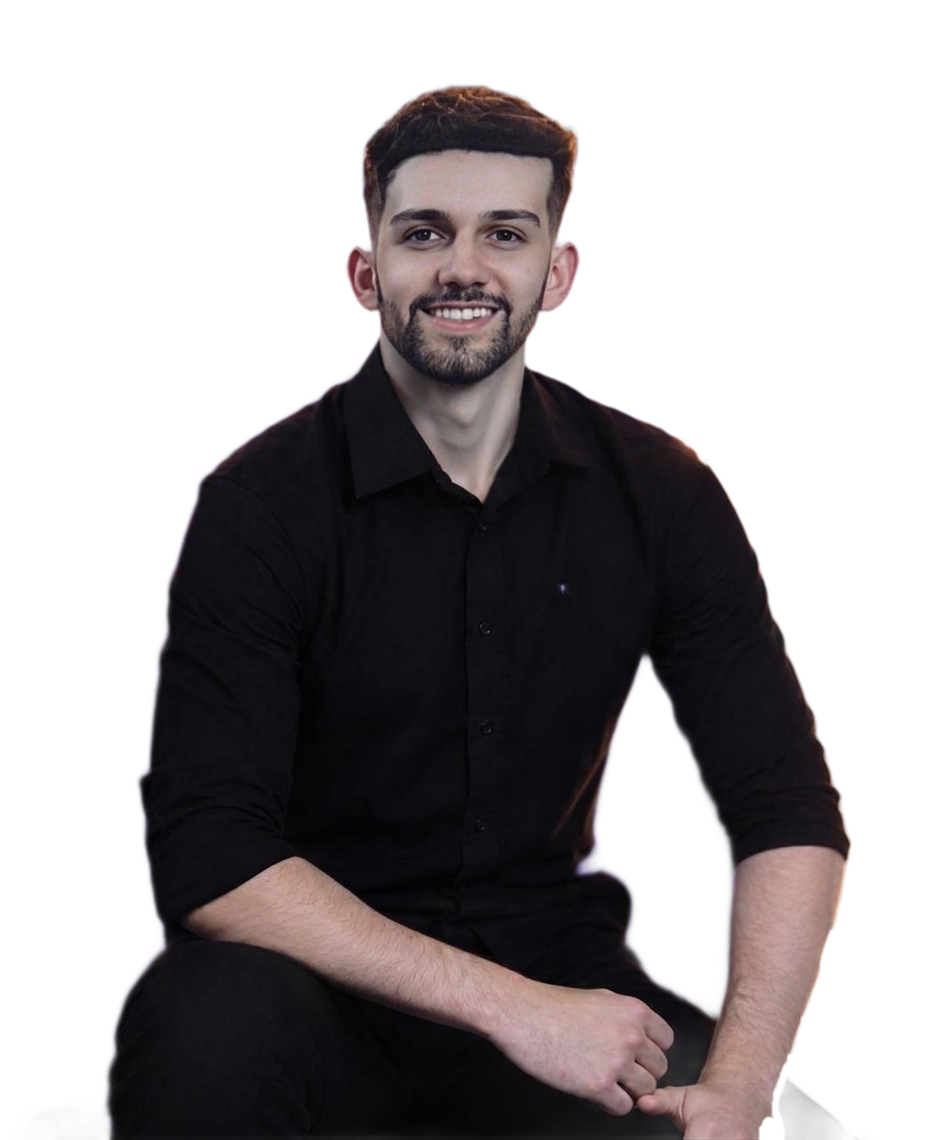
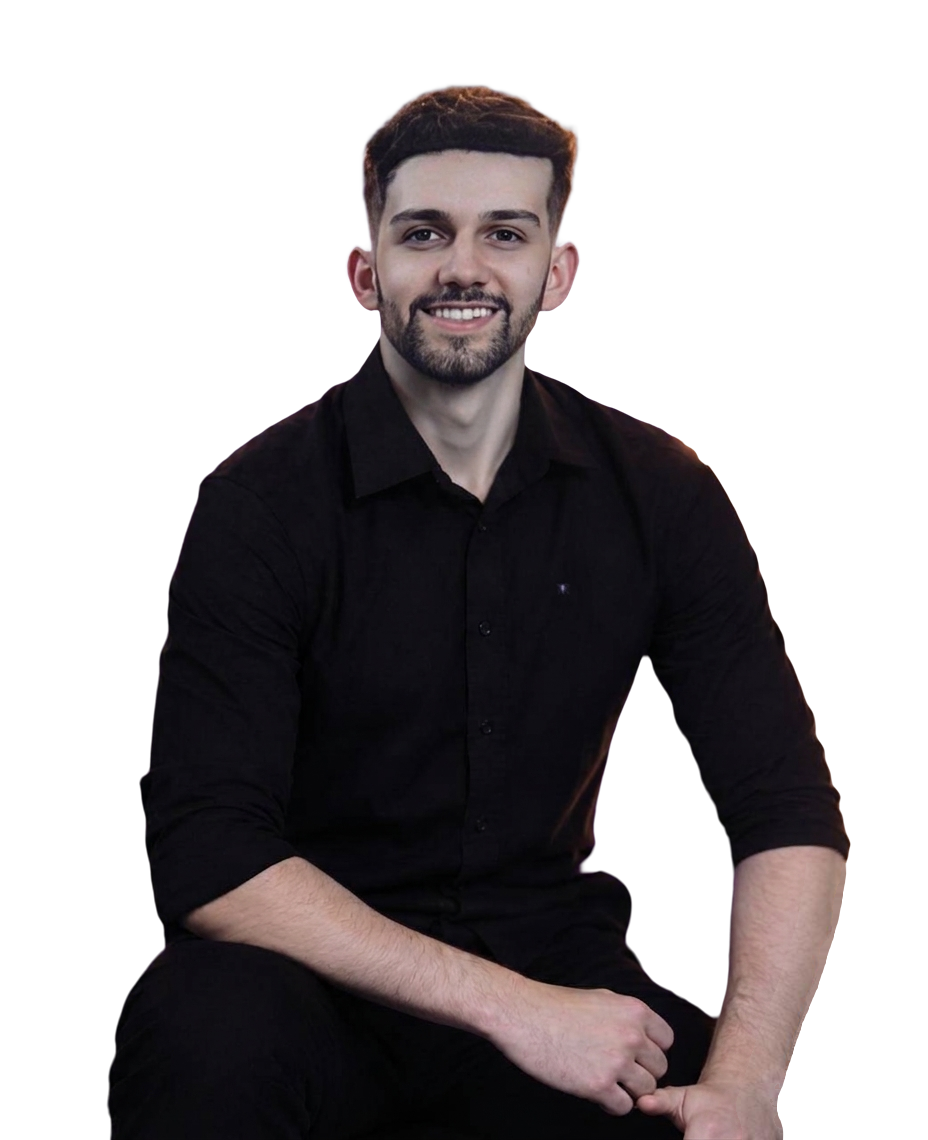
Refaz o recorte do antebraço na capa e ajusta painel, transição e rodapé
- Recorte: a borda do antebraço direito sai da foto original (o neon atrás dele
  confundia o recorte), sem o pedaço do banco, sem o brilho do neon e com a
  calça opaca
- Painel de licenças inteiro, sem cortar a coluna da direita, e aviso de hover
  no canto direito da barra de abas
- Capa com menos rolagem parada depois do pó virar fio (trilho de 190svh)
- Mais espaço entre o nome, a função e o cartão da foto
- Matriz de prioridade sem rótulos espremidos no celular
- Rodapé sem os links repetidos na página inicial

diff --git a/src/lib/po.ts b/src/lib/po.ts
@@ -9,8 +9,9 @@
 // - nada roda com a capa parada; a rolagem chega amortecida, para o movimento nunca dar tranco.
 
 const PASSO = 4; // um grão a cada 4 px da foto
-// Linha do tempo do trilho (0 a 1)
-const T = { textos: 0.16, comeca: 0.05, espalha: 0.24, ruido: 0.05, saida: 0.04, viagem: 0.3, fioDe: 0.5, fioAte: 0.78, poSome: 0.86 };
+// Linha do tempo do trilho (0 a 1). O pó some perto do fim (0,96), para o trilho não terminar com a tela parada,
+// só com o fio (o trilho, na Hero, tem 190svh)
+const T = { textos: 0.18, comeca: 0.056, espalha: 0.27, ruido: 0.056, saida: 0.045, viagem: 0.336, fioDe: 0.56, fioAte: 0.874, poSome: 0.963 };
 const TOPO_FIO = 0.58; // o fio da capa vai de 58% da altura da tela até o pé dela
 
 // A cor do fio (--color-fio, no global.css), em RGB

diff --git a/src/styles/global.css b/src/styles/global.css
@@ -150,7 +150,7 @@ html:has([data-capa]) {
 }
 
 html.palco-ativo:has([data-capa]) {
-  --capa-alt: 230svh;
+  --capa-alt: 190svh;
 }
 
 body::after {
